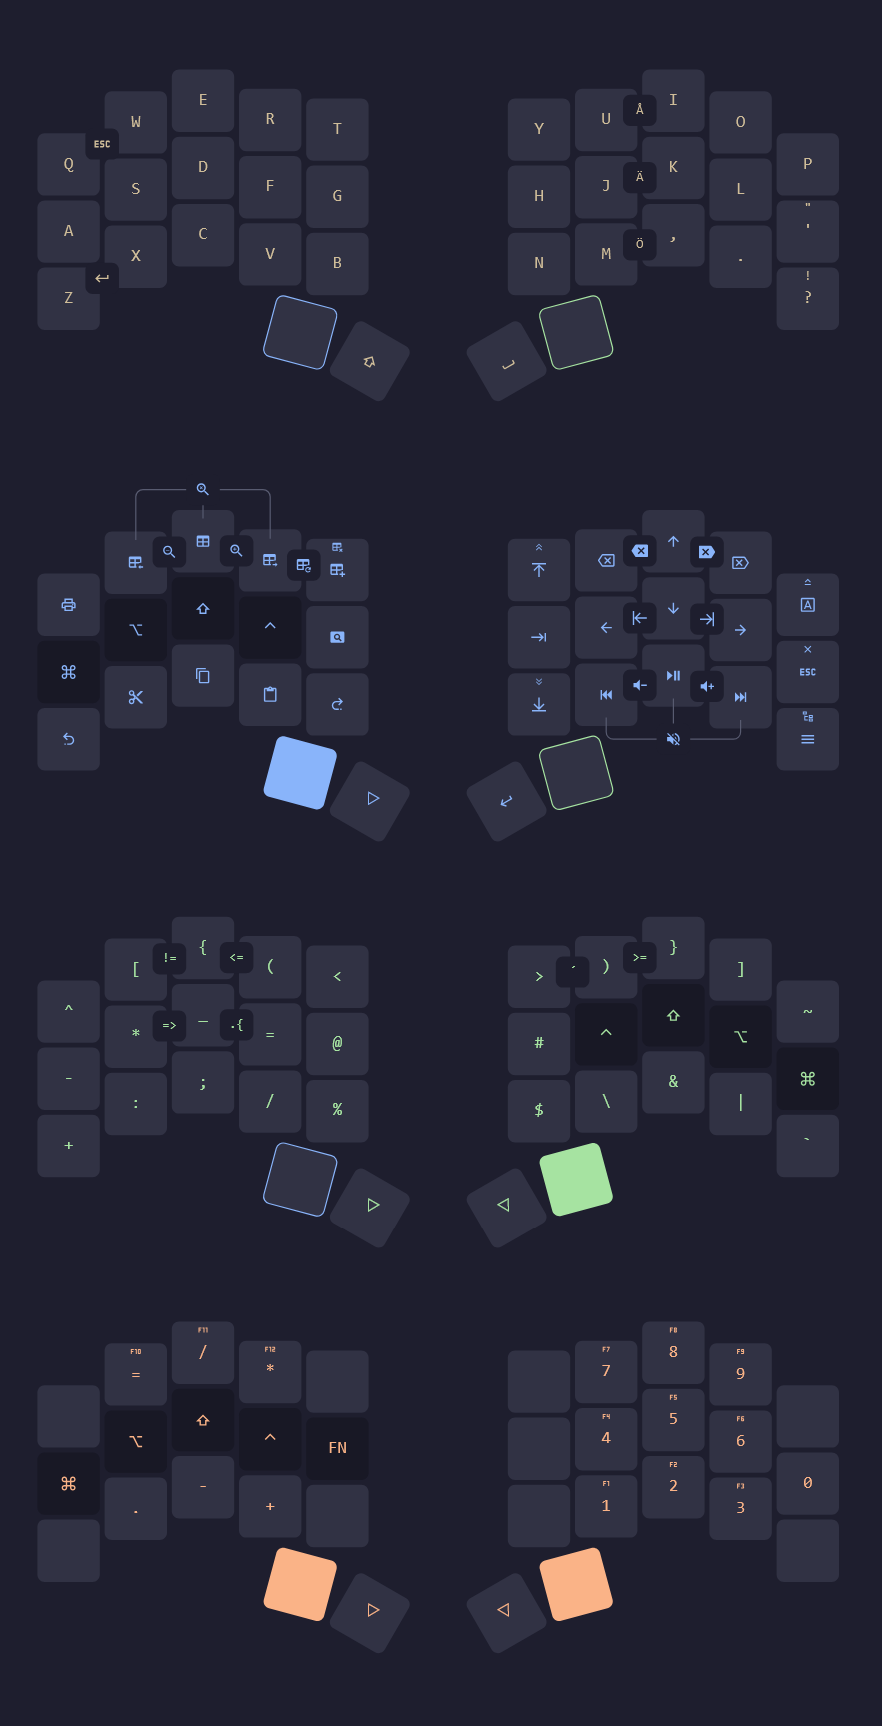
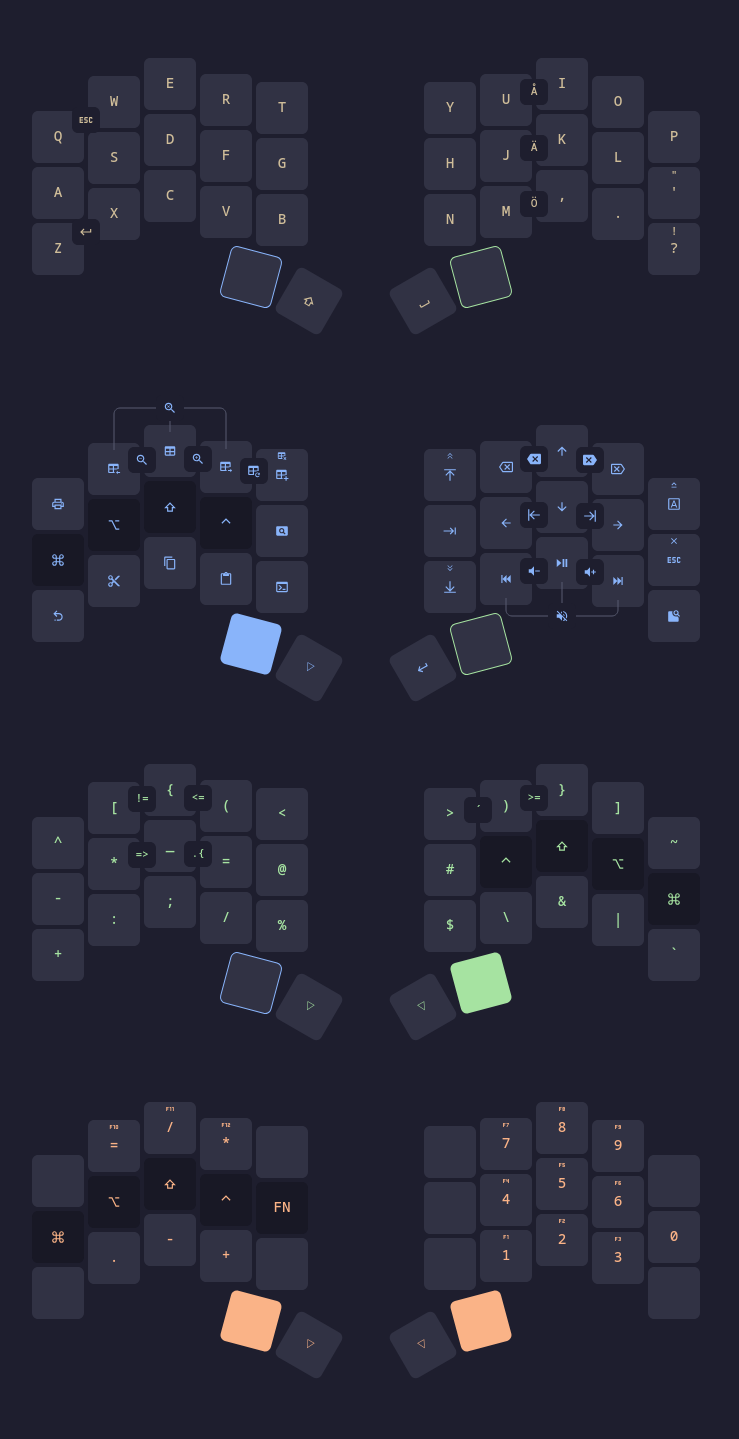
wm bindings

diff --git a/ferris/keymap.c b/ferris/keymap.c
@@ -39,7 +39,7 @@ const uint16_t PROGMEM keymaps[][MATRIX_ROWS][MATRIX_COLS] = {
   [NAV] = LAYOUT_ferris_hlc(
     MC_PSCR, KC_TABL, TB_NEXT, KC_TABR, KC_TABN,         KC_PGUP, KC_BSPC, KC_UP,   KC_DEL,  CW_TOGG,
     OS_GUI,  OS_ALT,  OS_SHFT, OS_CTRL, MC_LCHR,         KC_TAB,  KC_LEFT, KC_DOWN, KC_RIGHT,KC_ESC,
-    MC_UNDO, MC_CUT,  MC_COPY, MC_PASTE,MC_REDO,         KC_PGDN, KC_MPRV, KC_MPLY, KC_MNXT, KC_APP,
+    MC_UNDO, MC_CUT,  MC_COPY, MC_PASTE,MC_TERM,         KC_PGDN, KC_MPRV, KC_MPLY, KC_MNXT, MC_OVRW,
                               _______, _______,          KC_ENT,  _______,
 
     XXXXXXX, XXXXXXX, XXXXXXX, XXXXXXX, XXXXXXX,         XXXXXXX, XXXXXXX, XXXXXXX, XXXXXXX, XXXXXXX

diff --git a/ferris/keydefs/macros.h b/ferris/keydefs/macros.h
@@ -4,12 +4,11 @@
 #define MC_CUT   C(KC_X)
 #define MC_COPY  C(KC_C)
 #define MC_PASTE C(KC_V)
-#define MC_REDO  C(S(KC_Z))
-#define MC_SLCT  C(KC_A)
 
-#define MC_LCHR A(KC_SPC) // launcher
-#define MC_TMGR C(S(KC_ESC)) // Task manager
+#define MC_LCHR G(KC_D) // Launcher
+#define MC_TERM G(KC_T) // Terminal
 #define MC_PSCR KC_PSCR // Screenshot
+#define MC_OVRW G(KC_O) // Overview
 
 #define MC_ZINC C(SE_PLUS) // Zoom in
 #define MC_ZDEC C(SE_MINS) // Zoom out
@@ -18,7 +17,7 @@
 #define MC_BWRD C(KC_BSPC)
 #define MC_DWRD C(KC_DEL)
 
-#define MC_QUIT A(KC_F4)
+#define MC_QUIT G(KC_Q)
 
 #define MC_TABL C(S(KC_TAB))
 #define MC_TABR C(KC_TAB)

diff --git a/ferris/keydefs/overrides.h b/ferris/keydefs/overrides.h
@@ -25,11 +25,6 @@ const key_override_t pgdn_whld_override = ko_make_basic(
   MS_WHLD
 );
 
-const key_override_t app_tmgr_override = ko_make_basic(
-  MOD_MASK_SHIFT, KC_APP,
-  MC_TMGR
-);
-
 const key_override_t tabn_tabc_override = ko_make_basic(
   MOD_MASK_SHIFT, KC_TABN,
   MC_TABC
@@ -48,7 +43,6 @@ const key_override_t *key_overrides[] = {
   &quot_dquo_override,
   &pgup_mhlu_override,
   &pgdn_whld_override,
-  &app_tmgr_override,
   &tabn_tabc_override,
   &esc_quit_override
 };
